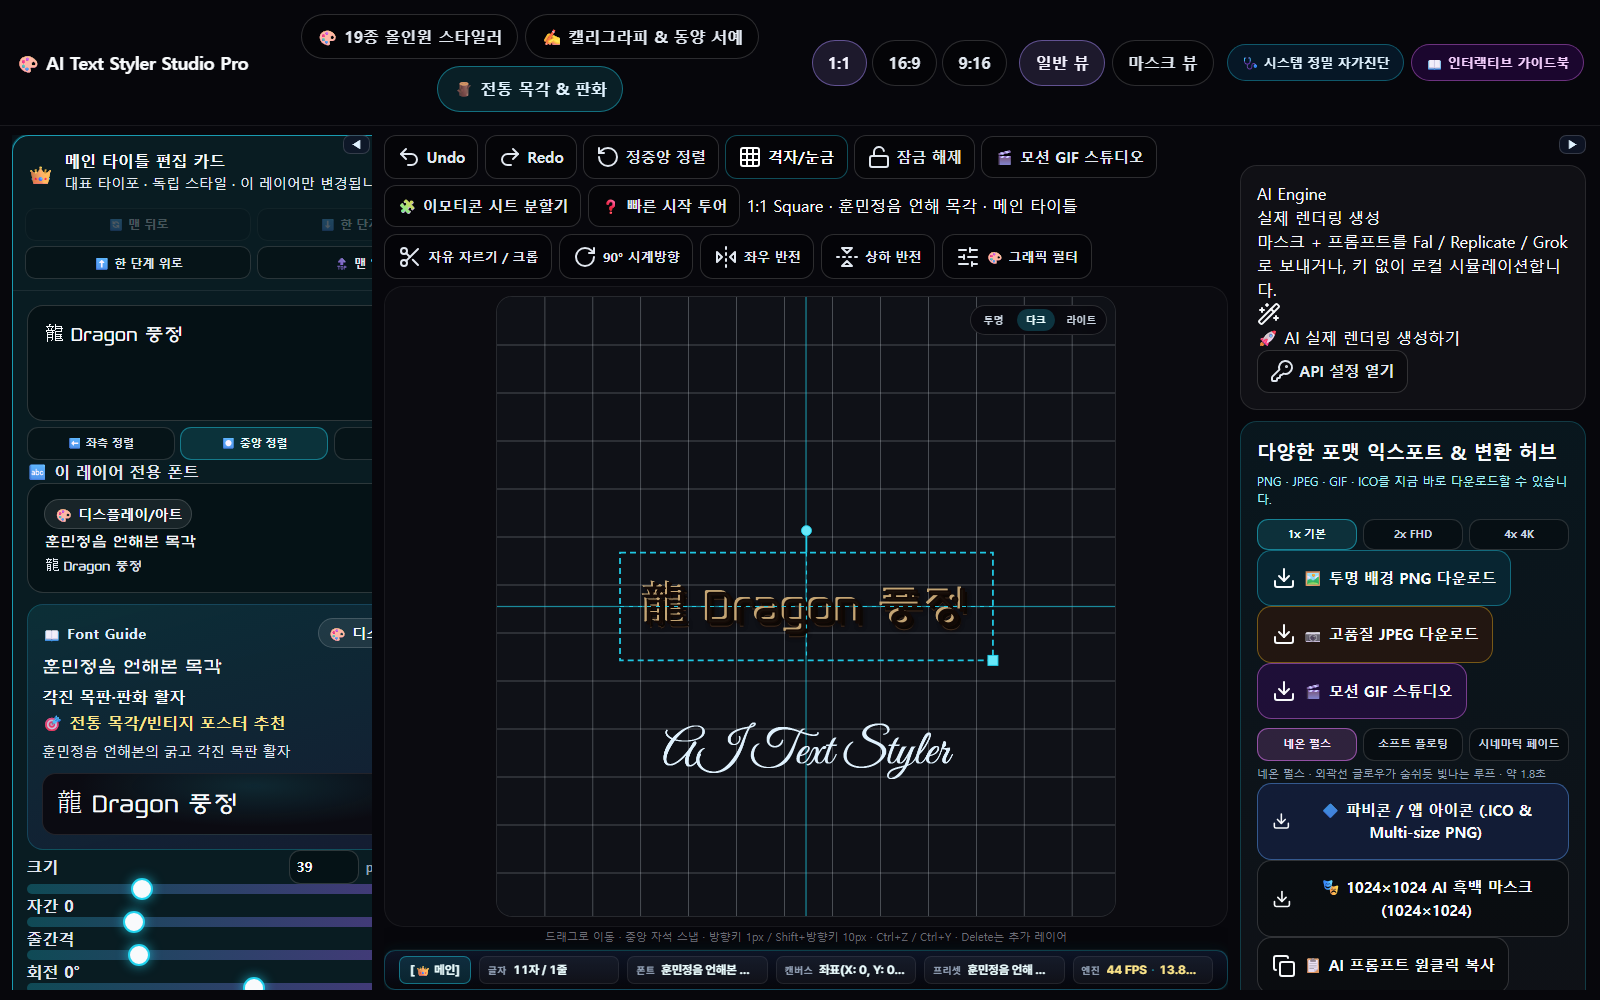
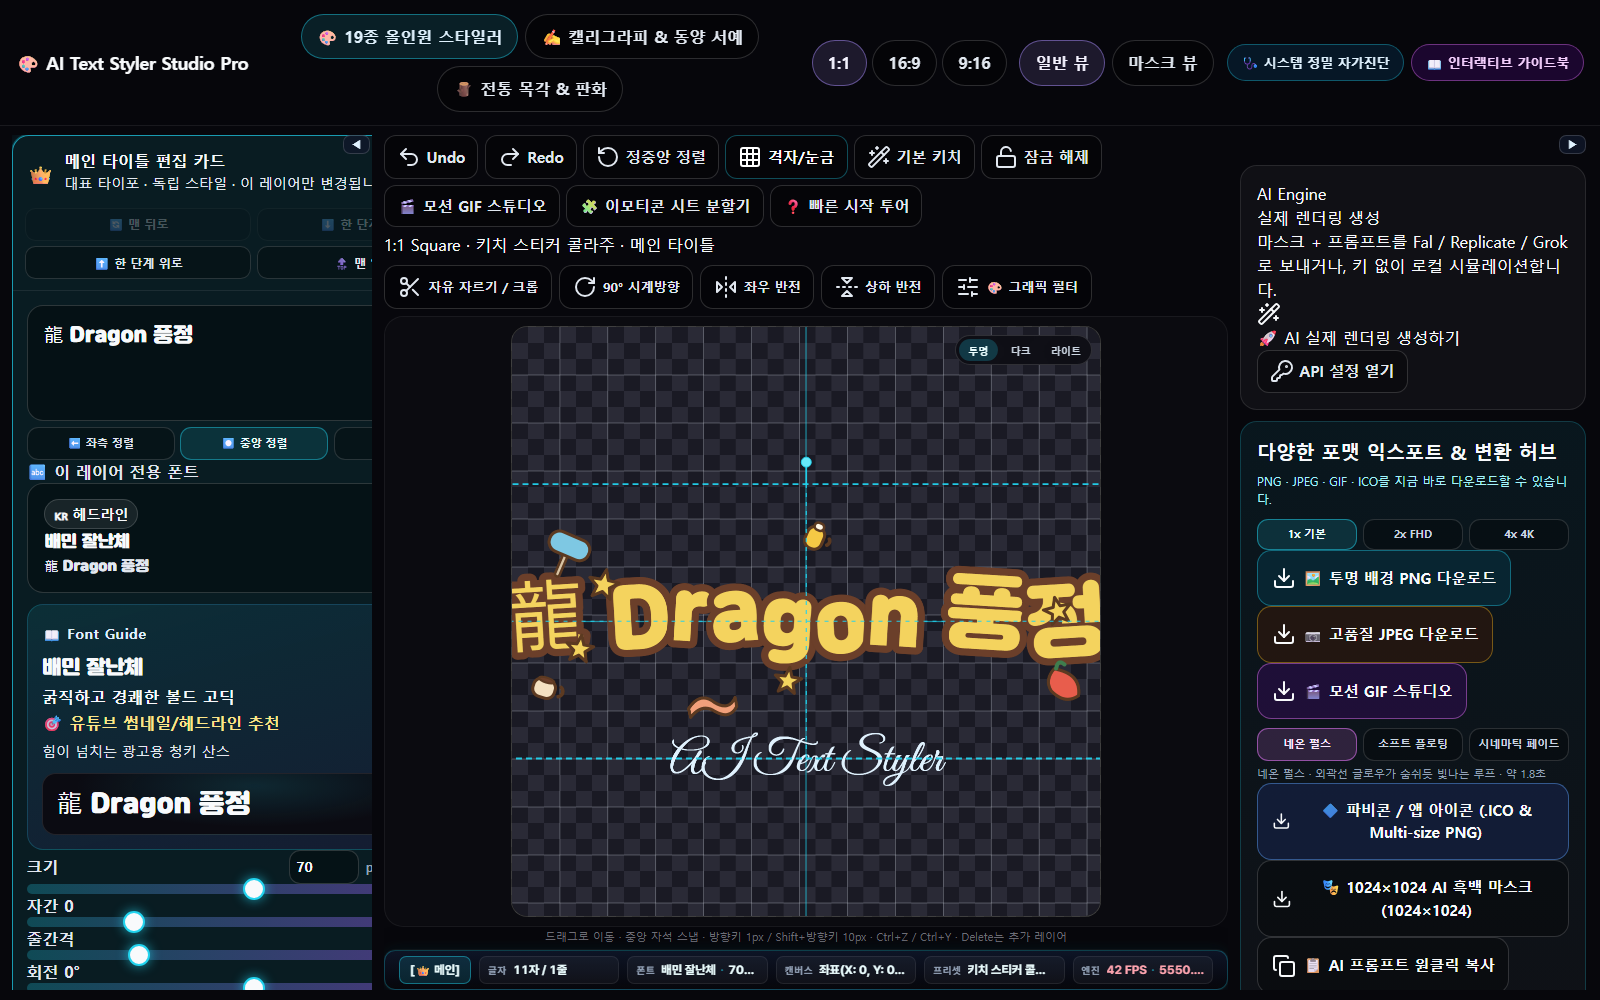
fix: default to the kitsch sticker look so the cream Dragon sample loads on start

diff --git a/src/lib/featureRegistry.js b/src/lib/featureRegistry.js
@@ -345,8 +345,8 @@ export const APP_FEATURES_REGISTRY = [
       chapterId: 'basics',
       order: 10,
       title: '📖 챕터 1. 간단 설정 요약 — 폰트·컬러·슬라이더',
-      sample: GUIDE_SAMPLES['gold-dragon'],
-      kicker: '매일 쓰는 기본 조작만 한 장에 모았습니다. 배치·크롭·합성·AI는 다음 챕터에서 단계별로 다룹니다.',
+      sample: GUIDE_SAMPLES['pungjeong-kitsch'],
+      kicker: '첫 화면 기본은 龍 Dragon 풍정 + 키치 스티커 콜라주입니다. 배민 잘난체, 크림 채움, 갈색 외곽, F&B 스티커를 켜 둔 상태입니다.',
       visuals: [
         { tone: 'layout', chips: ['왼쪽 설정', '|', '중앙 캔버스', '우측 익스포트'], split: true },
       ],
@@ -355,7 +355,7 @@ export const APP_FEATURES_REGISTRY = [
         { title: '폰트 선택', body: '레이어 카드의 폰트 버튼을 열고 [🇰🇷 헤드라인] [🇰🇷 본문·고딕] [🇰🇷 명조·서예] [🇺🇸 영문 헤드라인] [🇺🇸 스크립트] [🎨 디스플레이/아트] 짧은 탭만 고릅니다. 긴 설명은 탭 위 16px 플로팅 툴팁에만 있고 탭 글자에는 넣지 않습니다. 닫힌 폰트 버튼은 카테고리+글꼴명+샘플을 보여 주므로 16자 크롬 라벨 검사에서 제외됩니다. 항목에 호버하면 캔버스가 미리보고, 클릭하면 그 레이어에만 적용됩니다. 메인과 서브는 서로 간섭하지 않습니다.' },
         { title: '컬러 픽커', body: '카드 하단 [텍스트 / 외곽선 / 그림자] 색 칸을 누릅니다. 외곽선 두께 0이면 테두리가 없고, 2~6이 포스터에 무난합니다. 그림자 블러는 8~18이 읽기 좋습니다.' },
         { title: '슬라이더', body: '크기·자간·줄간격·회전·투명도·가로/세로 위치는 드래그만으로 반영됩니다. 크기 슬라이더는 10~130px이며 앱 기본 70px가 정중앙입니다. 손을 떼면 히스토리에 남으므로 Ctrl+Z로 되돌릴 수 있습니다. 줄간격 권장 구간은 챕터 2를 보세요.' },
-        { title: '프리셋 원클릭', body: '🎨 올인원 / ✍ 캘리그라피 / 🪵 목각 탭에서 카드를 누르면 그 레이어 스타일만 바뀝니다. 키치 스티커는 올인원에서 해당 프리셋을 고른 뒤 하단에 나타납니다.' },
+        { title: '프리셋 원클릭', body: '첨부하신 크림 글자+별/고추/머그 장식은 [🎨 19종 올인원]에서 [키치 스티커 콜라주]를 고르고, 카드 아래 [스티커 켜기]와 [F&B / 카페]를 켠 결과입니다. 툴바 [기본 키치]나 이 장의 샘플 버튼으로 같은 룩을 다시 불러옵니다. 다른 프리셋은 올인원·캘리·목각 탭 카드를 누르면 그 레이어만 바뀝니다.' },
         { title: '내보내기·단축키', body: '우측에서 투명 PNG, JPEG, 모션 GIF, ICO를 고릅니다. PNG는 1x/2x/4x 배율을 고른 뒤 받습니다. GIF는 네온 펄스·소프트 플로팅·시네마틱 페이드 중 하나를 고른 뒤 [🎬 GIF 다운로드]로 받습니다. AI 이모티콘 시트는 상단 [🧩 이모티콘 시트 분할기]에서 모드 A(가로·세로 결합 자동 분할) 또는 모드 B 그리드로 나눈 뒤, 투명 배경 360×360 PNG ZIP으로 받습니다. [하단/상단] 텍스트 스위치·[내부 고립 구멍 투명화]·[배경 모드]는 분할기 안에서 켭니다. 방향키 1px, Shift+방향키 10px, Ctrl+Z 실행 취소, Ctrl+Y 다시 실행, Delete는 추가 레이어만 지웁니다(메인/서브 잠금).' },
       ],
     },
@@ -428,7 +428,7 @@ export const APP_FEATURES_REGISTRY = [
       play: [
         {
           title: '레이어를 선택해 바운딩 박스를 켠다',
-          body: '첫 실행 기본 샘플은 龍 Dragon 풍정 · 훈민정음 언해본 목각 39px입니다. 왼쪽에서 👑 메인 또는 ✨ 서브 카드를 누르거나 캔버스 글자를 클릭하면 청록(메인) 또는 핑크(서브) 점선 상자가 글자·외곽선·그림자까지 감쌉니다. 상자는 캔버스 실측 뒤에 그리고, 격자는 미리보기 플레이트 위에 그립니다.',
+          body: '첫 실행 기본 샘플은 龍 Dragon 풍정 · 키치 스티커 콜라주(배민 잘난체 70px, 스티커 ON, F&B)입니다. 왼쪽에서 👑 메인 또는 ✨ 서브 카드를 누르거나 캔버스 글자를 클릭하면 청록(메인) 또는 핑크(서브) 점선 상자가 글자·외곽선·스티커까지 감쌉니다. 상자는 캔버스 실측 뒤에 그리고, 격자는 미리보기 플레이트 위에 그립니다.',
           params: ['커서가 grab이면 이동 가능', '🔒 위치 잠금 OFF', '안전 패딩 14px + 장식 여백'],
           tip: '여러 레이어가 겹치면 메인 타이틀이 서브보다 앞에 그려집니다. 안 잡히면 왼쪽 카드를 눌러 선택을 확정하세요.',
           fail: '상단 [🔒 위치 잠금]이 켜져 있으면 드래그가 무시됩니다. 버튼을 다시 눌러 해제하세요.',

diff --git a/src/lib/diagnosticChecks.js b/src/lib/diagnosticChecks.js
@@ -7,6 +7,7 @@ import {
 import { inspectFavoriteStore } from './fontFavorites.js'
 import { inspectStudioFonts } from './fontPreload.js'
 import { DEFAULT_TEXT, FONT_CATEGORIES } from '../presets.js'
+import { GUIDE_SAMPLES } from './guideSamples.js'
 import { DEFAULT_STUDIO_FONT_ID, DEFAULT_STUDIO_MAIN_SIZE, DEFAULT_STUDIO_PRESET_ID, defaultStudioState } from './studioModel.js'
 import { liveStatusFromLayer } from './liveStatus.js'
 import {
@@ -614,10 +615,14 @@ export async function checkDragEngine() {
     return { status: 'error', detail: '기본 격자/눈금이 꺼져 있습니다.' }
   }
   if (main?.text !== DEFAULT_TEXT || main?.fontId !== DEFAULT_STUDIO_FONT_ID || main?.presetId !== DEFAULT_STUDIO_PRESET_ID || main?.fontSize !== DEFAULT_STUDIO_MAIN_SIZE) {
-    return { status: 'error', detail: '기본 목각 샘플(훈민정음 언해 39px)이 아닙니다.' }
+    return { status: 'error', detail: '기본 키치 스티커 샘플(배민 잘난체 70px)이 아닙니다.' }
   }
-  if (factory.studioTab !== 'woodcut' || factory.previewBg !== 'dark' || factory.stickerOn !== false) {
-    return { status: 'error', detail: '기본 스튜디오 탭/배경/스티커가 목각 샘플과 다릅니다.' }
+  if (factory.studioTab !== 'allinone' || factory.previewBg !== 'checker' || factory.stickerOn !== true || factory.stickerTheme !== 'fnb') {
+    return { status: 'error', detail: '기본 스튜디오 탭/체커보드/F&B 스티커가 키치 샘플과 다릅니다.' }
+  }
+  const kitsch = GUIDE_SAMPLES['pungjeong-kitsch']
+  if (!kitsch || kitsch.presetId !== 'kitsch-sticker' || kitsch.layers?.main?.text !== DEFAULT_TEXT) {
+    return { status: 'error', detail: '기본 키치 샘플 원클릭 데이터가 없습니다.' }
   }
   const layer = {
     id: 'diag-hit',
@@ -642,7 +647,7 @@ export async function checkDragEngine() {
   if (typeof PreviewLightboxModal !== 'function' || !lightboxSrc.includes('checkerboard-bg') || lightboxSrc.includes('bg-white')) {
     return { status: 'error', detail: '확대 팝업 체커보드가 없거나 흰 배경이 남아 있습니다.' }
   }
-  return { status: 'ok', detail: '2D 앵커·회전 히트박스 · 기본 龍 Dragon 풍정 목각 샘플 · 격자 ON · 확대 팝업 checkerboard-bg 고정.' }
+  return { status: 'ok', detail: '2D 앵커·회전 히트박스 · 기본 龍 Dragon 풍정 키치 스티커 · 격자 ON · 확대 팝업 checkerboard-bg 고정.' }
 }
 
 export async function checkTypography() {

diff --git a/src/App.jsx b/src/App.jsx
@@ -65,7 +65,7 @@ import { subscribeInspectorHud } from './utils/debugger.js'
 import { liveStatusFromLayer } from './lib/liveStatus.js'
 import { preloadStudioFonts } from './lib/fontPreload.js'
 import { registerCustomFontFile } from './lib/customFonts.js'
-import { applyGuideSample } from './lib/guideSamples.js'
+import { applyGuideSample, GUIDE_SAMPLES } from './lib/guideSamples.js'
 import {
   loadOnboardDone,
   saveOnboardDone,
@@ -1413,6 +1413,15 @@ export default function App() {
             <button type="button" className="tool-btn" onClick={resetActive} data-tooltip="텍스트를 캔버스 정중앙에 배치"><RotateCcw className="h-3.5 w-3.5" /> 정중앙 정렬</button>
             <button type="button" className={clsx('tool-btn', studio.gridOn && 'is-on')} onClick={() => patchStudio({ gridOn: !studio.gridOn }, false)} data-grid-on={studio.gridOn ? '1' : '0'} data-tooltip="편집 가이드 격자선 표시 토글">
               <Grid3x3 className="h-3.5 w-3.5" /> 격자/눈금
+            </button>
+            <button
+              type="button"
+              className="tool-btn"
+              data-default-kitsch="1"
+              onClick={() => applySample(GUIDE_SAMPLES['pungjeong-kitsch'])}
+              data-tooltip="크림 글자·갈색 외곽·F&B 스티커가 붙은 기본 키치 룩을 다시 불러옵니다"
+            >
+              <WandSparkles className="h-3.5 w-3.5" /> 기본 키치
             </button>
             <button type="button" className={clsx('tool-btn', studio.layerLocked && 'is-on')} onClick={() => patchStudio({ layerLocked: !studio.layerLocked }, false)} data-tooltip="캔버스 요소 위치 고정 및 잠금 해제">
               {studio.layerLocked ? <Lock className="h-3.5 w-3.5" /> : <Unlock className="h-3.5 w-3.5" />}

diff --git a/src/lib/guideSamples.js b/src/lib/guideSamples.js
@@ -1,4 +1,45 @@
 export const GUIDE_SAMPLES = {
+  'pungjeong-kitsch': {
+    id: 'pungjeong-kitsch',
+    label: '龍 Dragon 풍정 키치',
+    presetId: 'kitsch-sticker',
+    studioTab: 'allinone',
+    stickerOn: true,
+    stickerTheme: 'fnb',
+    previewBg: 'checker',
+    layers: {
+      main: {
+        text: '龍 Dragon 풍정',
+        fontId: 'jalnan',
+        presetId: 'kitsch-sticker',
+        fontSize: 70,
+        fontWeight: 400,
+        color: '#F6E7C1',
+        strokeWidth: 0,
+        strokeWidth2: 0,
+        curveAmount: 0,
+        ox: 0,
+        oy: 0,
+        rotation: 0,
+        letterSpacing: 0,
+        lineHeight: 1.2,
+        align: 'center',
+      },
+      sub: {
+        text: 'AI Text Styler',
+        fontId: 'great-vibes',
+        presetId: '',
+        fontSize: 40,
+        color: '#e0f2fe',
+        strokeWidth: 0,
+        strokeWidth2: 0,
+        curveAmount: 0,
+        ox: 0,
+        oy: 0.24,
+        rotation: 0,
+      },
+    },
+  },
   'gold-dragon': {
     id: 'gold-dragon',
     label: '황금 용 캘리그라피',
@@ -120,6 +161,9 @@ export function applyGuideSample(studio, sample) {
     presetId: sample.presetId ?? studio.presetId,
     studioTab: sample.studioTab ?? studio.studioTab,
     gifMotion: sample.gifMotion ?? studio.gifMotion,
+    stickerOn: sample.stickerOn ?? studio.stickerOn,
+    stickerTheme: sample.stickerTheme ?? studio.stickerTheme,
+    previewBg: sample.previewBg ?? studio.previewBg,
     layers: (studio.layers || []).map((layer) => {
       const patch = sample.layers?.[layer.role]
       if (!patch) return layer

diff --git a/src/lib/studioModel.js b/src/lib/studioModel.js
@@ -1,14 +1,15 @@
 import { DEFAULT_TEXT, FONTS, PRESETS } from '../presets.js'
 import {
   FONT_SIZE_EXTRA_DEFAULT,
+  FONT_SIZE_MAIN_DEFAULT,
   FONT_SIZE_SUB_DEFAULT,
 } from './fontSize.js'
 import { defaultViewEdit } from './viewEdit.js'
 
-export const STORAGE_KEY = 'styler-studio-pro-v2'
-export const DEFAULT_STUDIO_MAIN_SIZE = 39
-export const DEFAULT_STUDIO_PRESET_ID = 'hunmin-woodcut'
-export const DEFAULT_STUDIO_FONT_ID = 'hunmin'
+export const STORAGE_KEY = 'styler-studio-pro-v3'
+export const DEFAULT_STUDIO_MAIN_SIZE = FONT_SIZE_MAIN_DEFAULT
+export const DEFAULT_STUDIO_PRESET_ID = 'kitsch-sticker'
+export const DEFAULT_STUDIO_FONT_ID = 'jalnan'
 export const API_STORAGE_KEY = 'styler-api-keys-v1'
 
 let layerSeq = 1
@@ -57,7 +58,7 @@ export function createDefaultLayers() {
       fontWeight: 400,
       opacity: 1,
       oy: 0,
-      color: '#f8fafc',
+      color: '#F6E7C1',
     }),
     createLayer({
       name: '서브 타이틀',
@@ -78,10 +79,10 @@ export function defaultStudioState() {
     layers,
     activeLayerId: layers[0].id,
     presetId: DEFAULT_STUDIO_PRESET_ID,
-    studioTab: 'woodcut',
+    studioTab: 'allinone',
     viewMode: 'graphic',
     aspectId: '1:1',
-    stickerOn: false,
+    stickerOn: true,
     stickerTheme: 'fnb',
     chiselDepth: 6,
     roughness: 48,
@@ -99,7 +100,7 @@ export function defaultStudioState() {
     },
     viewEdit: defaultViewEdit(),
     gifMotion: 'pulse',
-    previewBg: 'dark',
+    previewBg: 'checker',
     exportScale: 1,
   }
 }
